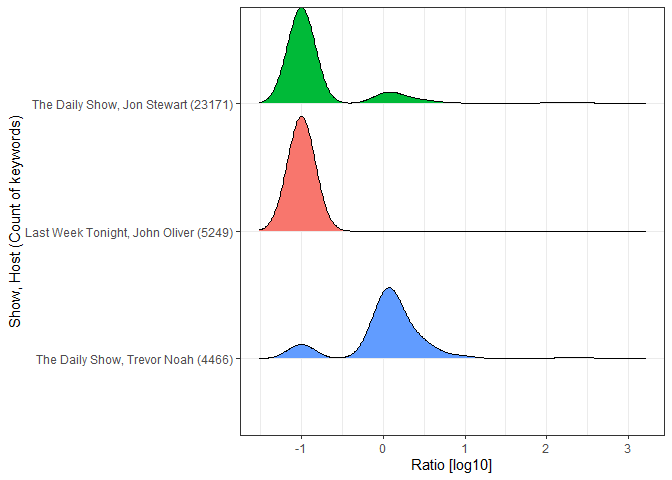
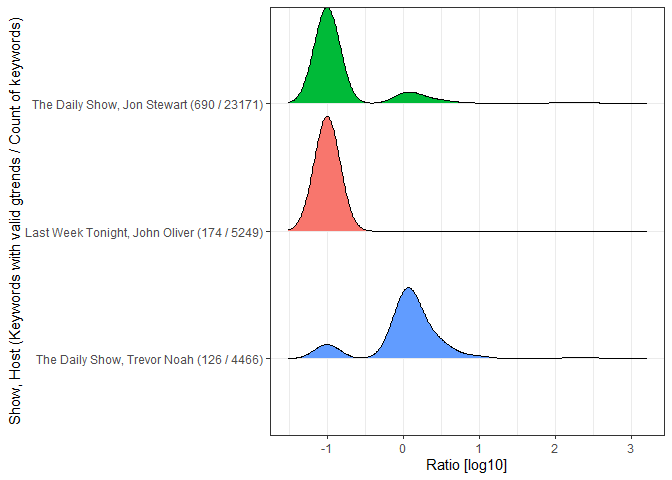
knit readme

diff --git a/README.md b/README.md
@@ -1,10 +1,22 @@
 
 - [Bump](#bump)
+  - [Abstract](#abstract)
   - [Gathering the data](#gathering-the-data)
   - [Topic](#topic)
+  - [Show-grained visuals](#show-grained-visuals)
+  - [Show summaries](#show-summaries)
+  - [Limitations](#limitations)
 - [Session info](#session-info)
 
 # Bump
+
+## Abstract
+
+Analysis of late night shows looking at the bump in google trends hits
+following a show. The Colbert Report discussed the “Colbert-bump”, where
+a guest or topic of the show received a boost in attention following the
+show. This repository and analysis set out to quantify and summarize the
+gain in attention across various late night shows.
 
 ``` r
 tictoc::tic("Compile report")
@@ -15,12 +27,6 @@ suppressPackageStartupMessages({
 })
 knitr::opts_chunk$set(warning = FALSE, message = FALSE, cache = FALSE)
 ```
-
-Analysis of late night shows looking at the bump in google trends hits
-following a show. The Colbert Report discussed the “Colbert-bump”, where
-a guest or topic of the show received a boost in attention following the
-show. This repository and analysis set out to quantify and summarize the
-gain in attention across various late night shows.
 
 ## Gathering the data
 
@@ -141,7 +147,12 @@ gtrend_topic %>%
 
 Still, of the remaining data we can apply this analysis.
 
-### Example topic visuals
+## Show-grained visuals
+
+This illustrates the ratio timeframe, one week beforehand is shaded in
+orcid purple, while a one week after is shaded in salmon red. The ratio
+is the after over before (with a minimum of 1). The ratio of the
+different topics are displayed in parentheses.
 
 ``` r
 gdat <- worked_topic %>%
@@ -188,7 +199,7 @@ gdat %>%
 
 ![](README_files/figure-gfm/unnamed-chunk-5-1.png)<!-- -->
 
-### Show summaries
+## Show summaries
 
 Summary of show:
 
@@ -219,16 +230,23 @@ Visual of ratio, log10
 
 ``` r
 gdat %>%
-  count(Show, Host, keyword, ratio) %>% select(-n) %>%
+  #filter(ratio > 1) %>%
+  count(Show, Host, keyword, ratio) %>%
   inner_join(., gdat %>% count(Show, Host) %>% rename(n_keywords = n)) %>%
-  mutate(Show_Host = paste0(Show, ", ", Host, " (", n_keywords, ")")) %>%
-  ggplot(aes(x = log10(ratio + .1), 
+  inner_join(., gdat %>%
+               count(Show, Host, keyword) %>%
+               mutate(n_worked = n > 7) %>%
+               count(Show, Host, n_worked) %>%
+               select(-n_worked) %>%
+               rename(n_worked = n)) %>%
+  mutate(Show_Host = paste0(Show, ", ", Host, " (",n_worked, " / ", n_keywords, ")")) %>%
+  ggplot(aes(x = log10(ratio + .1),
              y = reorder(Show_Host, n_keywords), fill = Show_Host)) +
   geom_density_ridges(scale = .9) + # Adjust the scale to reduce overlap
   theme_bw() +
   theme(legend.position = "none") +
   labs(x = "Ratio [log10]",
-       y = "Show, Host (Count of keywords)")
+       y = "Show, Host (Keywords with valid gtrends / Count of keywords)")
 ```
 
 ![](README_files/figure-gfm/unnamed-chunk-7-1.png)<!-- -->
@@ -285,13 +303,21 @@ gdat %>%
     ## 10 Last Week Tonight John Oliver      1      12 the United States              0
     ## # ℹ 1,123 more rows
 
+## Limitations
+
+Google trends only go back to 2004/1/1. Google trends had surprisingly
+low throughput of returning results even when querying spanned several
+days to avoid API limits. Some trend response seem unrealistically low,
+for instance all of John Oliver’s last week tonight that worked gave
+ratios of 0 or 1, but never above that.
+
 # Session info
 
 ``` r
 tictoc::toc() ## "Compile report"
 ```
 
-    ## Compile report: 3.38 sec elapsed
+    ## Compile report: 4.91 sec elapsed
 
 ``` r
 sessionInfo()
